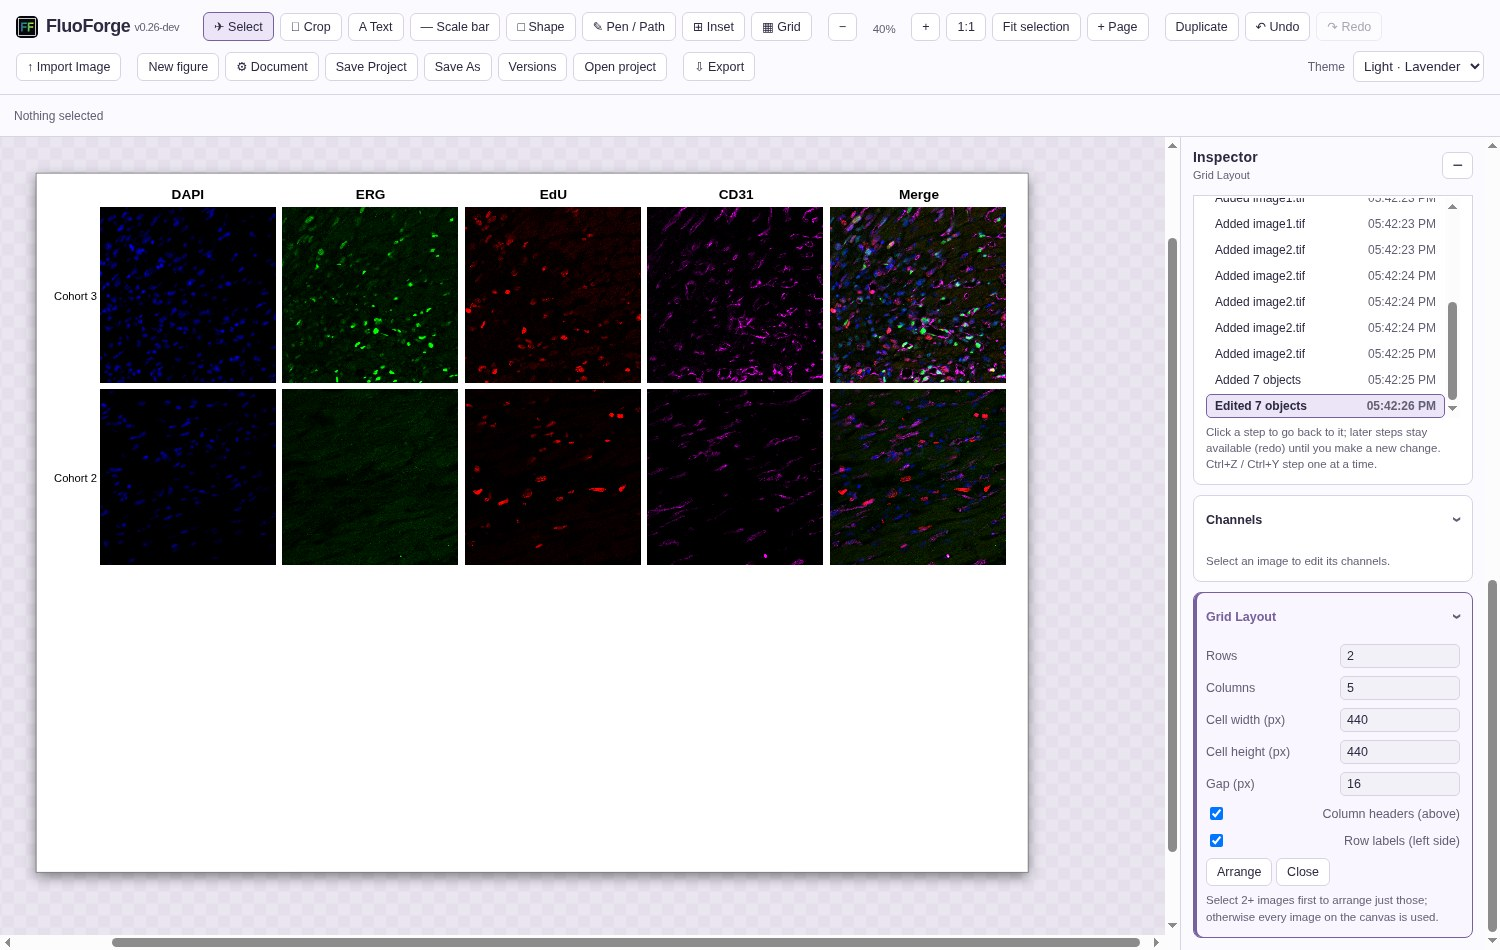
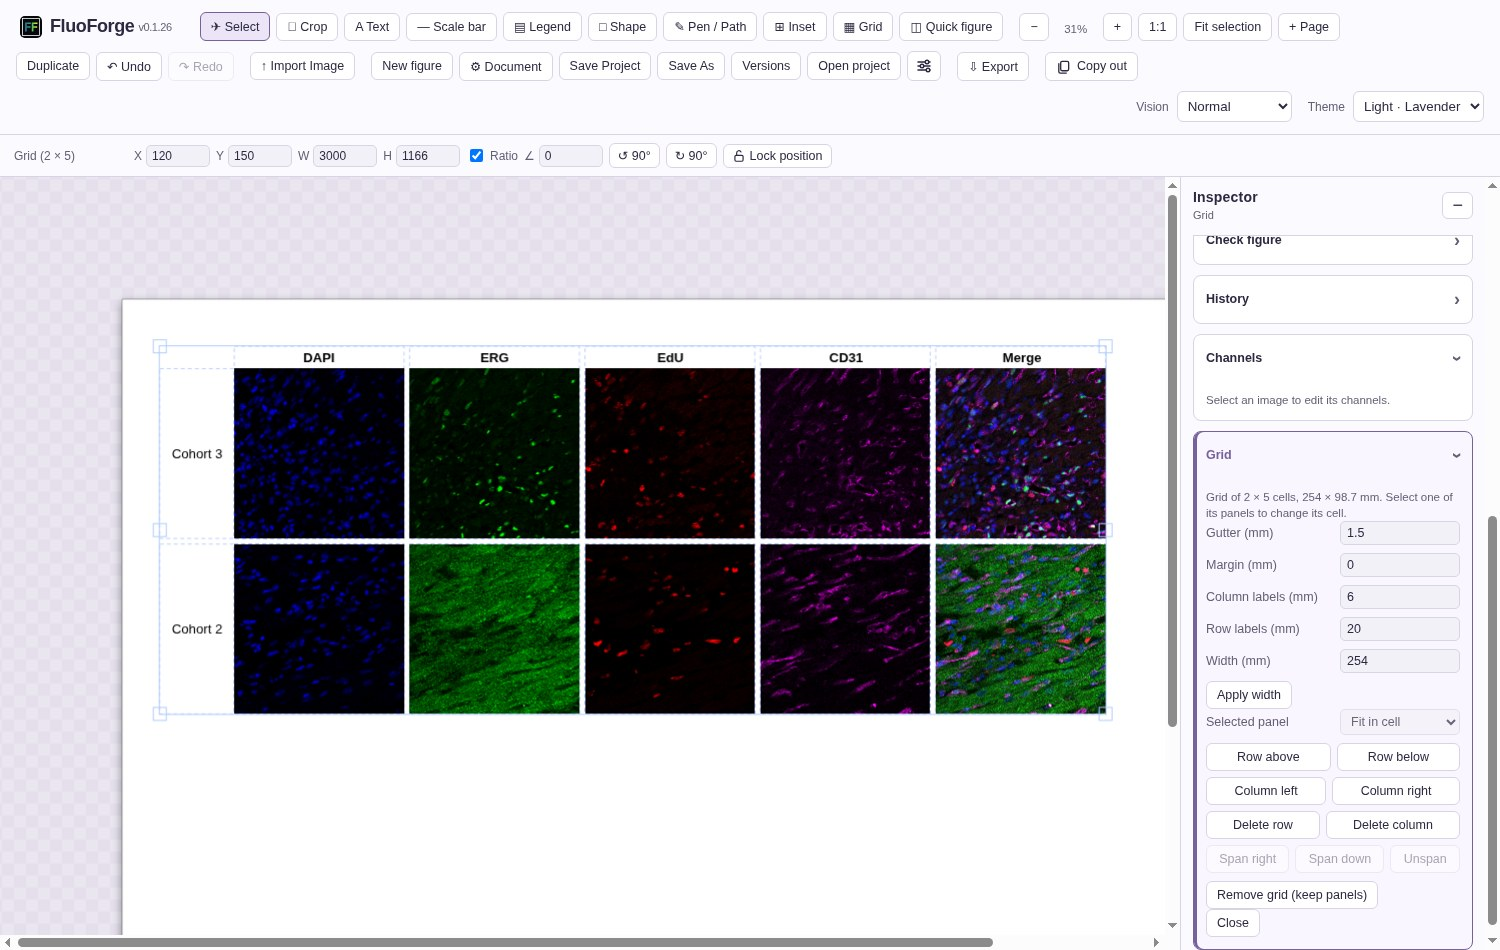
MANUAL: new screenshot of the layout grid
docs/images/04-grid.jpg showed the former one-shot Grid panel (rows,
columns, cell size and gap in px, Arrange). Retaken with v0.1.26: the same
two-cohort DAPI / ERG / EdU / CD31 / Merge figure, made with Quick figure
and laid out by a 2 x 5 layout grid with its column and row labels, the
grid selected and the new Grid panel open. The alt text says so.

diff --git a/docs/MANUAL.md b/docs/MANUAL.md
@@ -163,7 +163,7 @@ The usual layout of a fluorescence figure is single channels next to the merge, 
 2. Select the images in reading order (or select none to use every image), then click **Grid**.
 3. Set **Rows** and **Columns** (empty: up to 4 columns), the **Width** of the whole grid in mm (empty: the size of the first image), the **Gutter** between cells and the **Margin** around them in mm, whether to add **Column labels** above and **Row labels** on the left, and whether panels **Fit** their cell or **Fill** it, then click **Make grid**.
 
-![A 2 × 5 grid of DAPI, ERG, EdU, CD31 and merge panels for two cohorts, with the Grid Layout panel](images/04-grid.jpg)
+![A 2 × 5 layout grid of DAPI, ERG, EdU, CD31 and merge panels for two cohorts, with its column and row labels, selected, and the Grid panel](images/04-grid.jpg)
 
 The grid is drawn as dashed cells in the editor only; exports show its panels and labels, never the grid itself. Locked images, images in a group and images already in a grid stay where they are.
 
